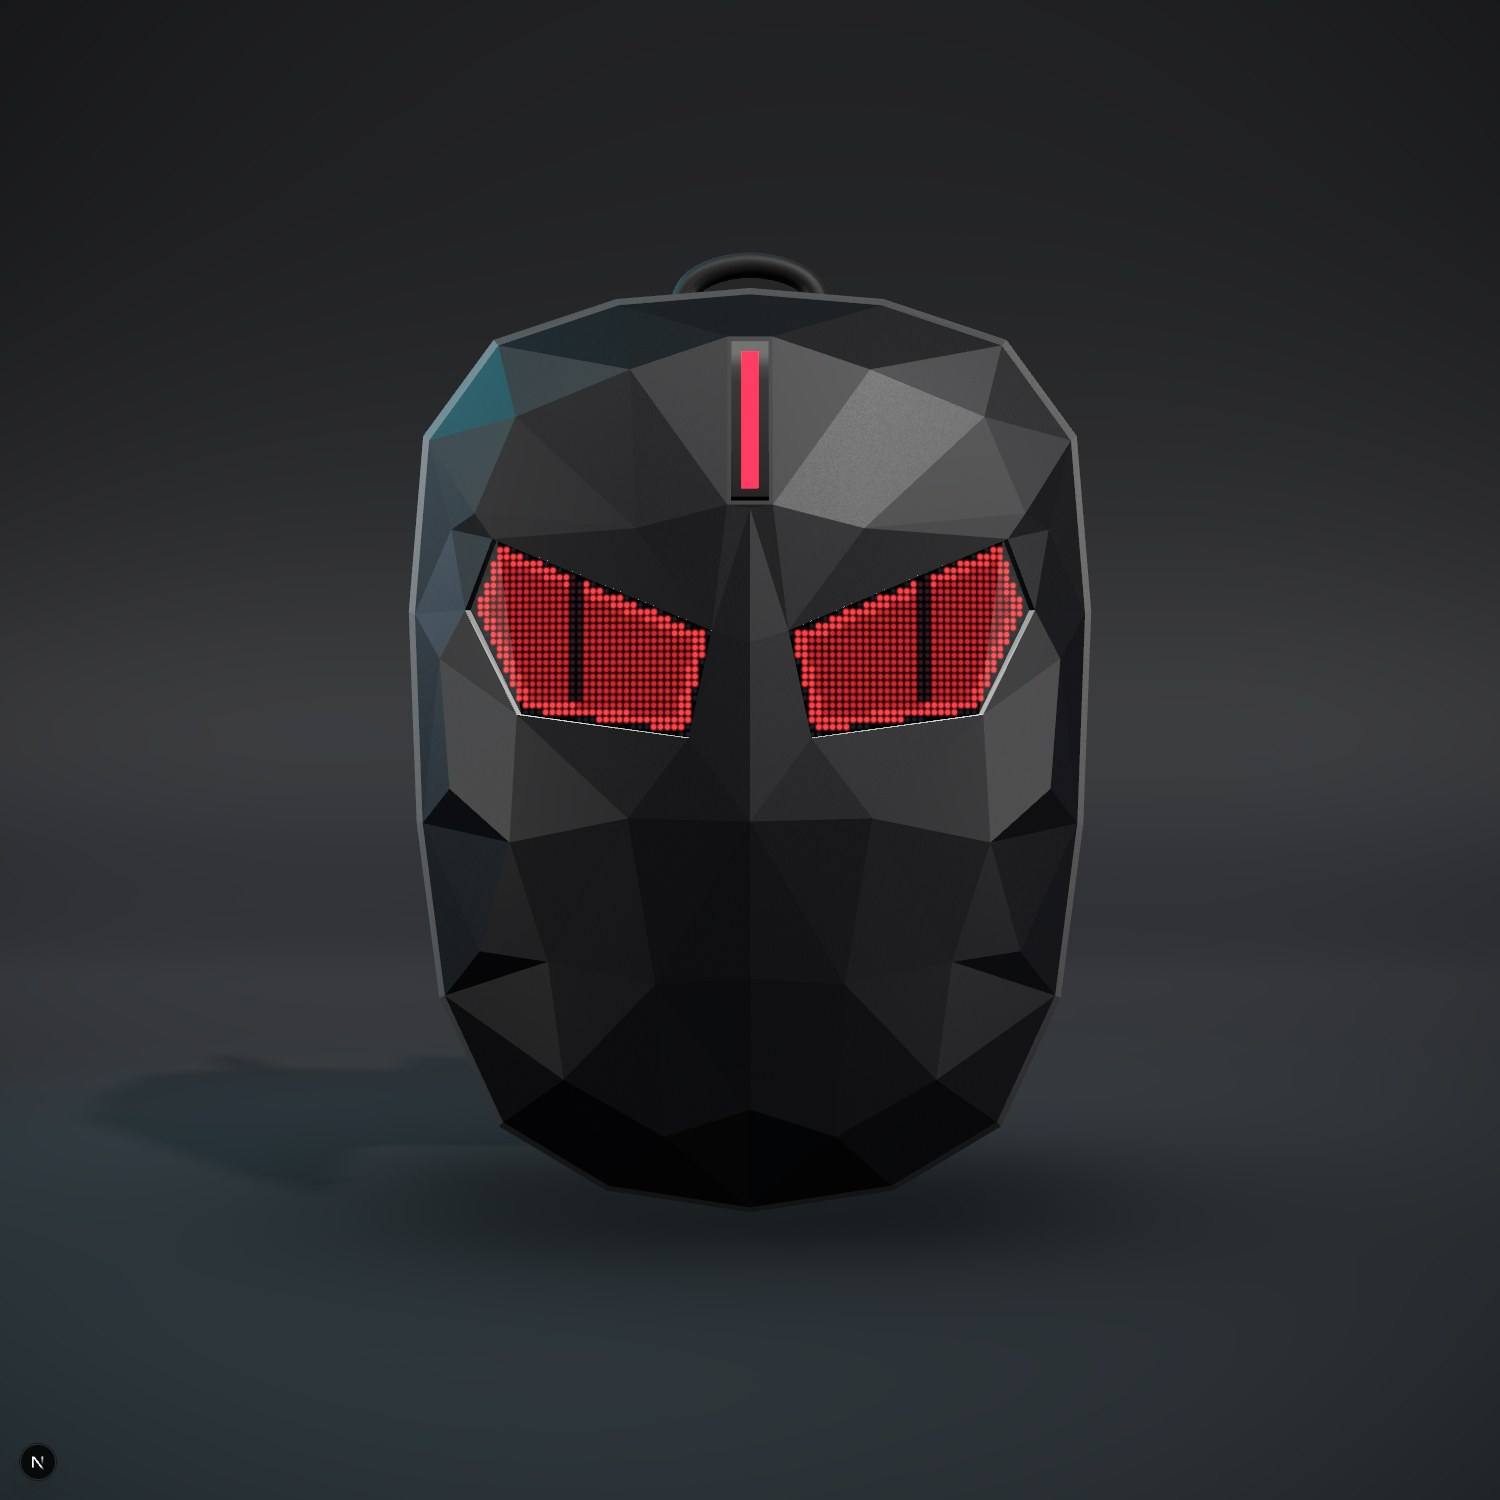
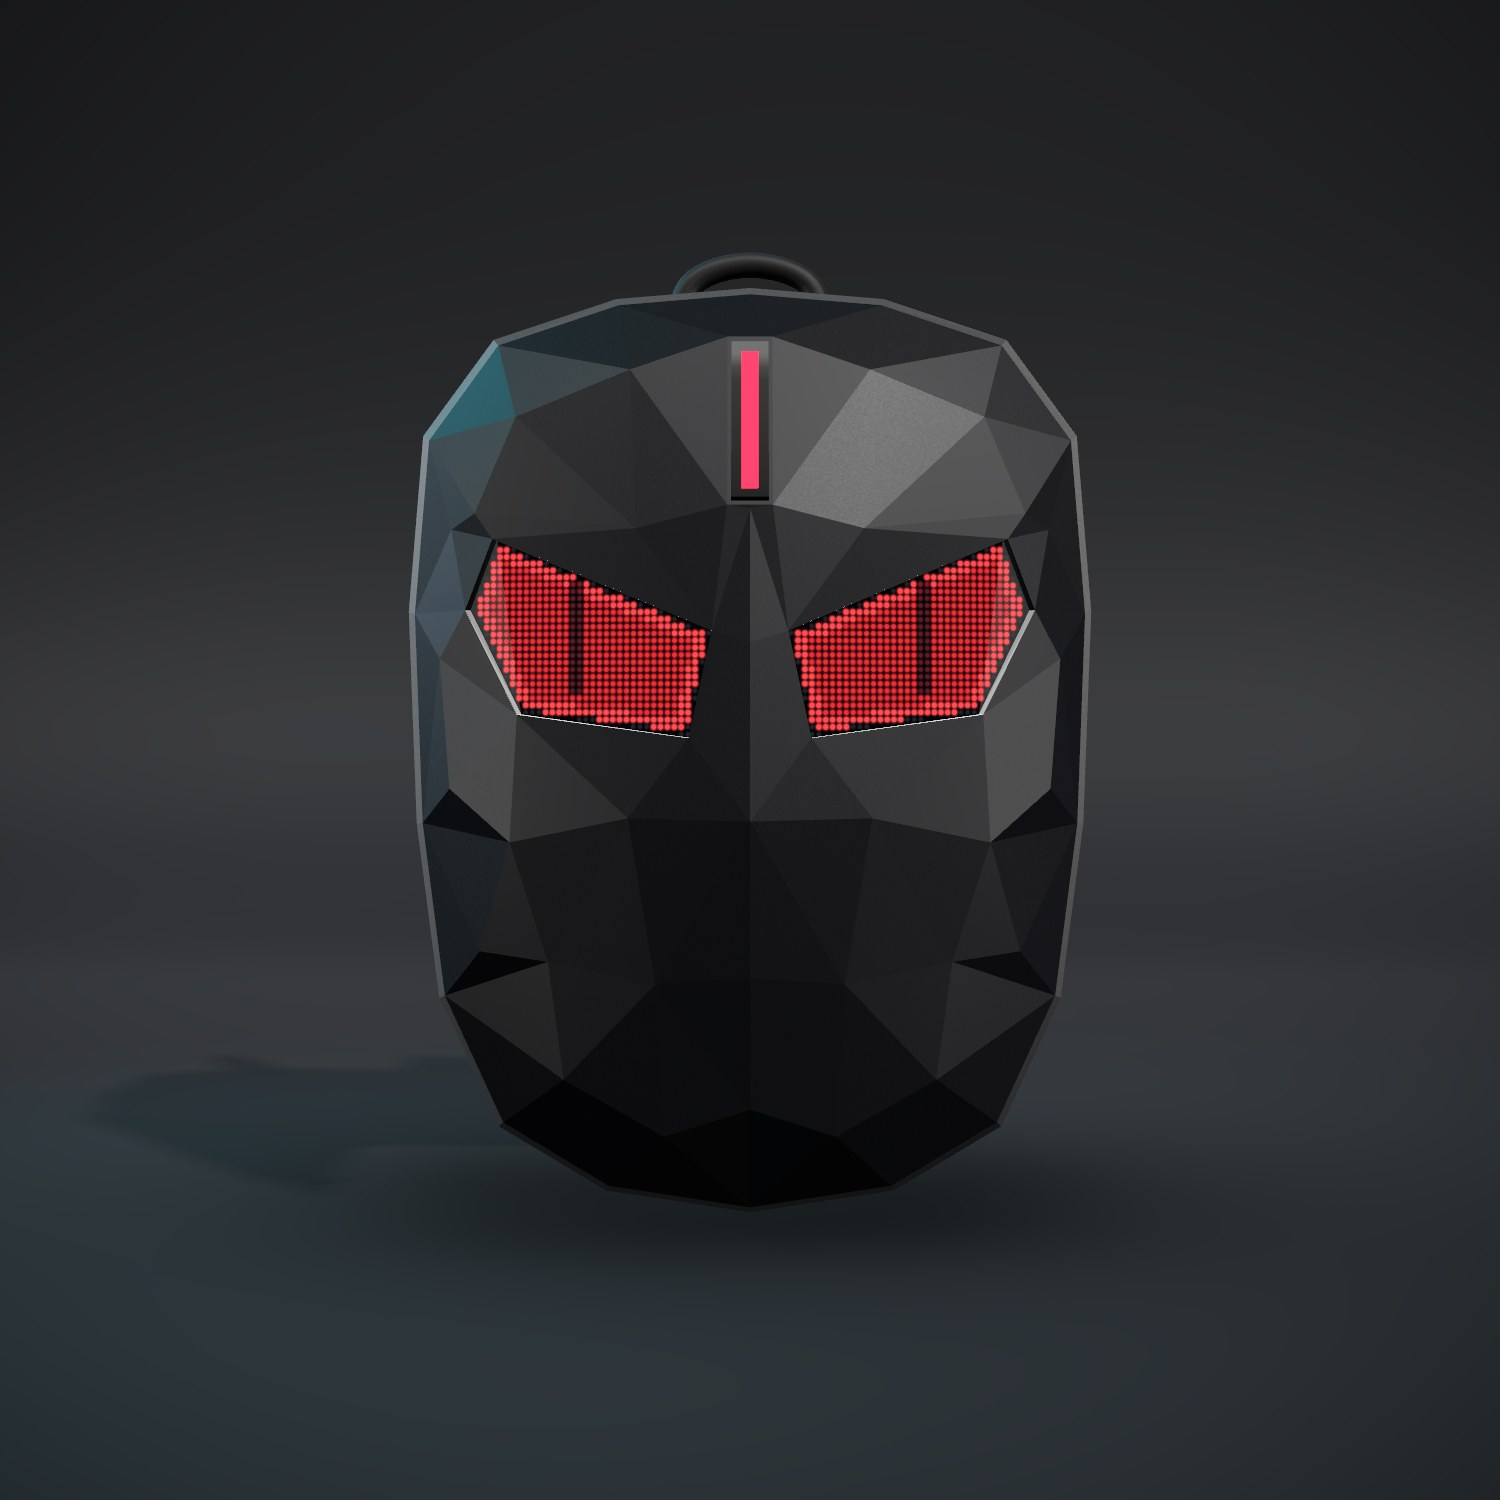
Add full campaign render set; reframe eye close-ups and finish detail
Claude-Session: https://claude.ai/code/session_0185G1ajPT98N9nNpbEQNLPa

Changed region(s): [[0.5213, 0.368, 0.6747, 0.4907], [0.3373, 0.368, 0.46, 0.4907], [0.0, 0.9507, 0.0307, 0.9813]]

diff --git a/lib/render/shots.ts b/lib/render/shots.ts
@@ -56,8 +56,8 @@ export const SHOTS: Shot[] = [
     h: 1000,
     kind: "eyes",
     look: { preset: p, led: c },
-    cam: [0, 0.07, 0.46],
-    target: [0, 0.06, 0],
+    cam: [0, 0.07, 0.68],
+    target: [0, 0.055, 0],
     fov: 30,
   })),
   { id: "macro-16x9", file: "macro-16x9.jpg", w: 2400, h: 1350, kind: "macro", cam: [0.25, 0.115, 0.2], target: [0.12, 0.075, 0.055], fov: 24 },
@@ -69,7 +69,7 @@ export const SHOTS: Shot[] = [
   { id: "studio-profile", file: "studio-profile.jpg", w: 1500, h: 1500, kind: "studio", cam: [0, 0.05, 1.55], target: [0, 0.0, -0.06], fov: 30, rotY: Math.PI / 2 },
   { id: "studio-back", file: "studio-back.jpg", w: 1500, h: 1500, kind: "studio", cam: [0, 0.08, 1.55], target: [0, 0.0, -0.08], fov: 30, rotY: Math.PI + 0.35 },
   { id: "studio-eyes", file: "studio-eyes.jpg", w: 1500, h: 1500, kind: "studio", cam: [0.12, 0.09, 0.52], target: [0.0, 0.07, 0.03], fov: 30, rotY: 0.18 },
-  { id: "studio-finish", file: "studio-finish.jpg", w: 1500, h: 1500, kind: "macro", cam: [0.34, -0.02, 0.16], target: [0.15, -0.06, -0.01], fov: 26, look: { preset: "phantom", led: "violet" } },
+  { id: "studio-finish", file: "studio-finish.jpg", w: 1500, h: 1500, kind: "studio", cam: [0.5, 0.16, 0.2], target: [0.16, 0.04, -0.03], fov: 26, rotY: 0, look: { preset: "phantom", led: "violet" } },
   { id: "studio-worn", file: "studio-worn.jpg", w: 1500, h: 1500, kind: "worn", cam: [0.55, 1.32, 1.85], target: [0.11, 1.2, 0.31], fov: 32, rotY: 0.35 },
   ...variantPresets.flatMap(([shell, preset, led]): Shot[] =>
     (["on", "off"] as const).map((state) => ({

diff --git a/components/three/render/RenderStudio.tsx b/components/three/render/RenderStudio.tsx
@@ -120,7 +120,7 @@ function EyesSet({ shot }: { shot: Shot }) {
   return (
     <>
       <color attach="background" args={["#020203"]} />
-      <Lighting mood="macro" intensity={0.8} />
+      <Lighting mood="macro" intensity={0.7} accent="#5d6a80" />
       <Product shot={shot} />
     </>
   );
